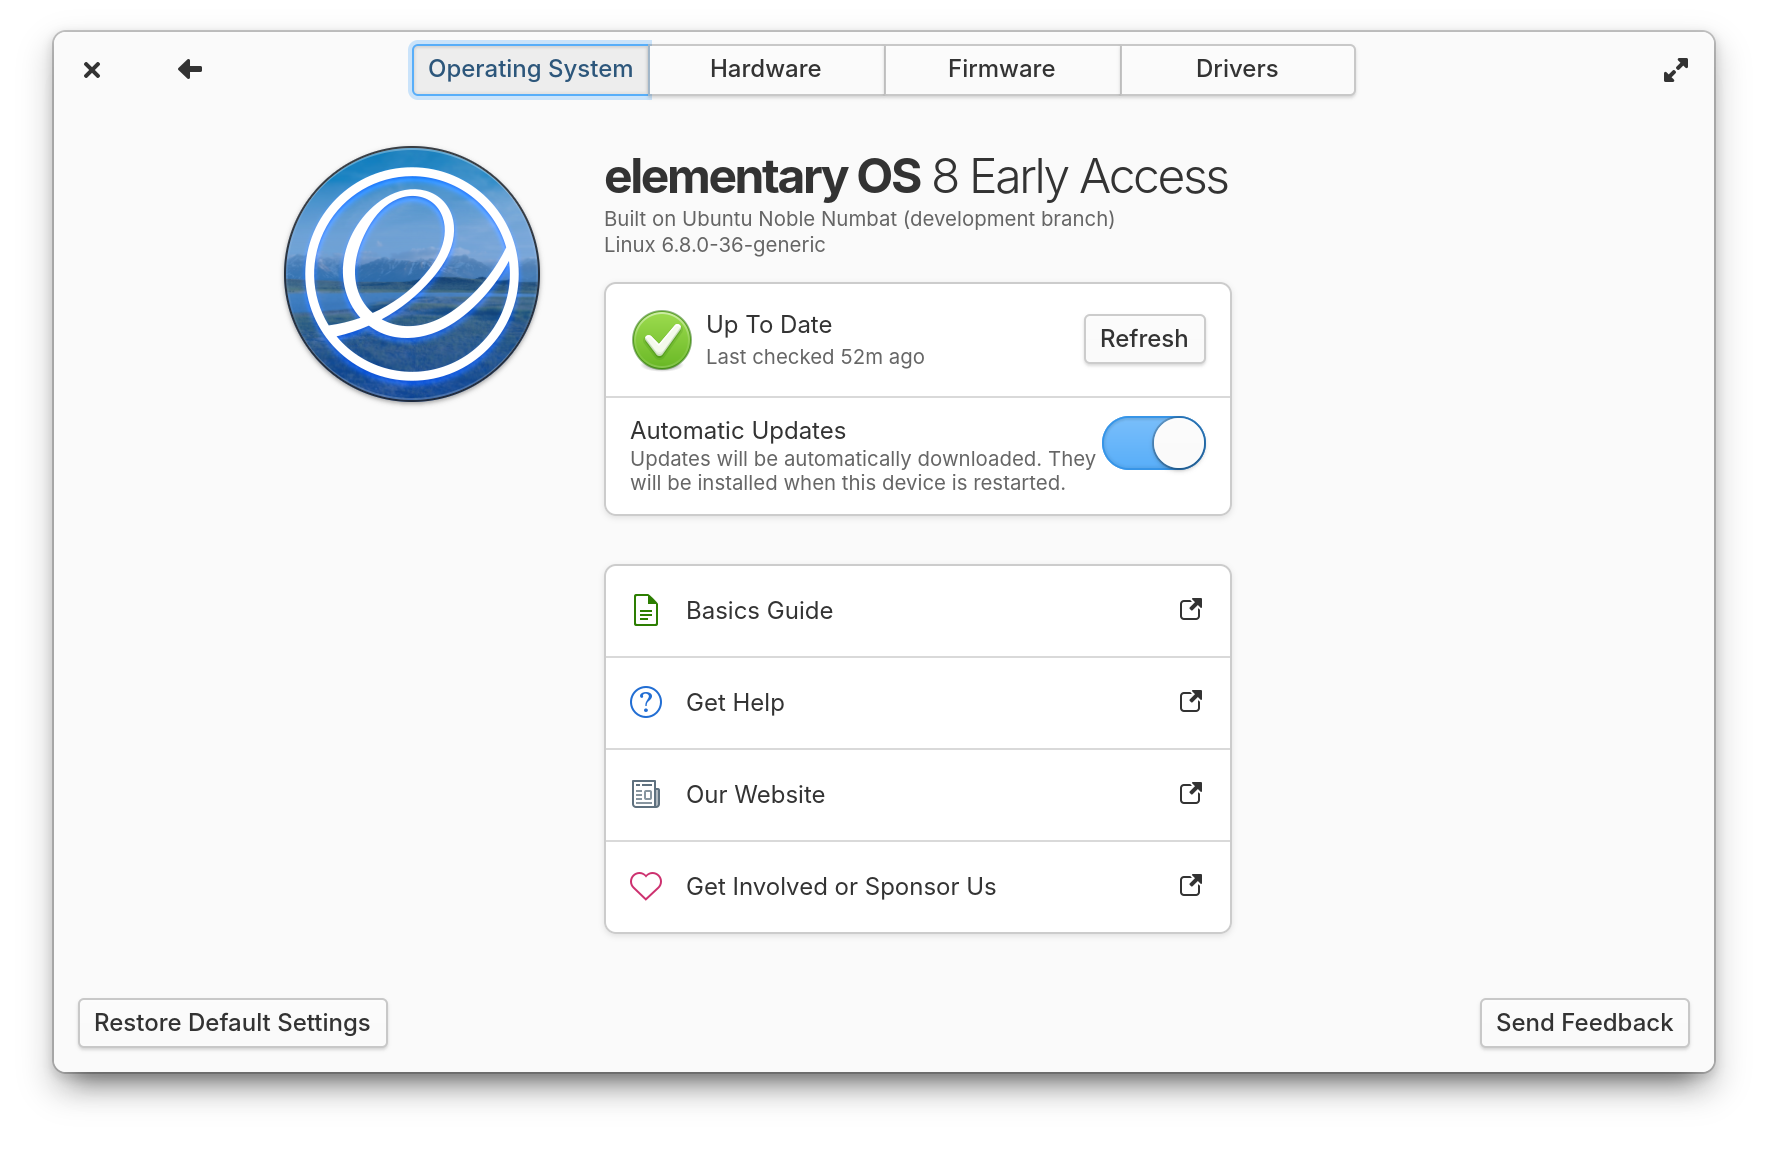
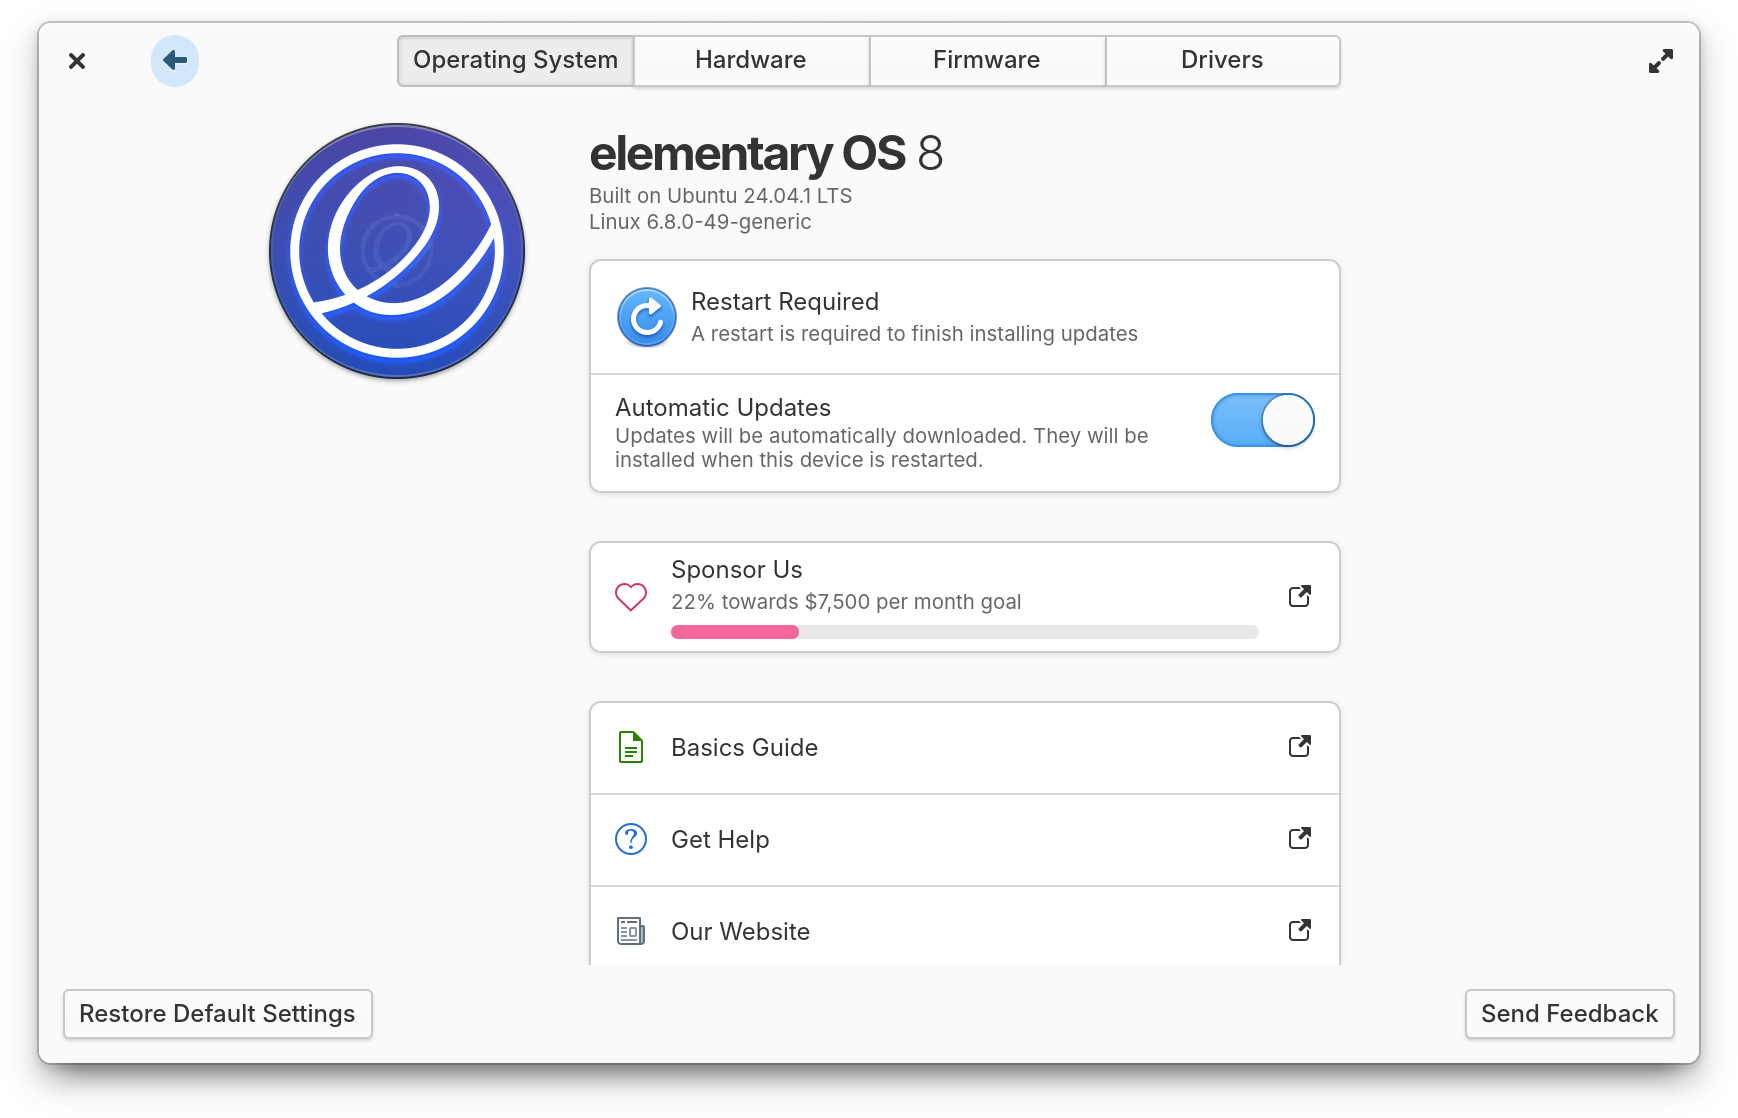
Show sponsor goal progress bar (#347)

diff --git a/data/OperatingSystemView.css b/data/OperatingSystemView.css
@@ -22,7 +22,20 @@ row modelbutton {
    padding: 3px 6px;
 }
 
-row.link box {
-    padding: 0 6px;
-    border-spacing: 12px;
+row.link > box,
+row.link > grid {
+    padding: 0 0.5em;
+    border-spacing: 1em 0;
+}
+
+row.link > grid label.dim-label {
+    margin: 0.25em 0 0.5em;
+}
+
+levelbar.pink:not(:backdrop) block.filled {
+    background-color: @BUBBLEGUM_300;
+}
+
+levelbar.pink block.empty {
+    background-color: alpha(@menu_separator, 0.6);
 }

diff --git a/README.md b/README.md
@@ -18,6 +18,7 @@ You'll need the following dependencies:
 * libappstream-dev
 * libpackagekit-glib2-dev
 * libpolkit-gobject-1-dev
+* libsoup-3.0-dev
 * meson
 * valac
 * switcheroo-control (at runtime)
